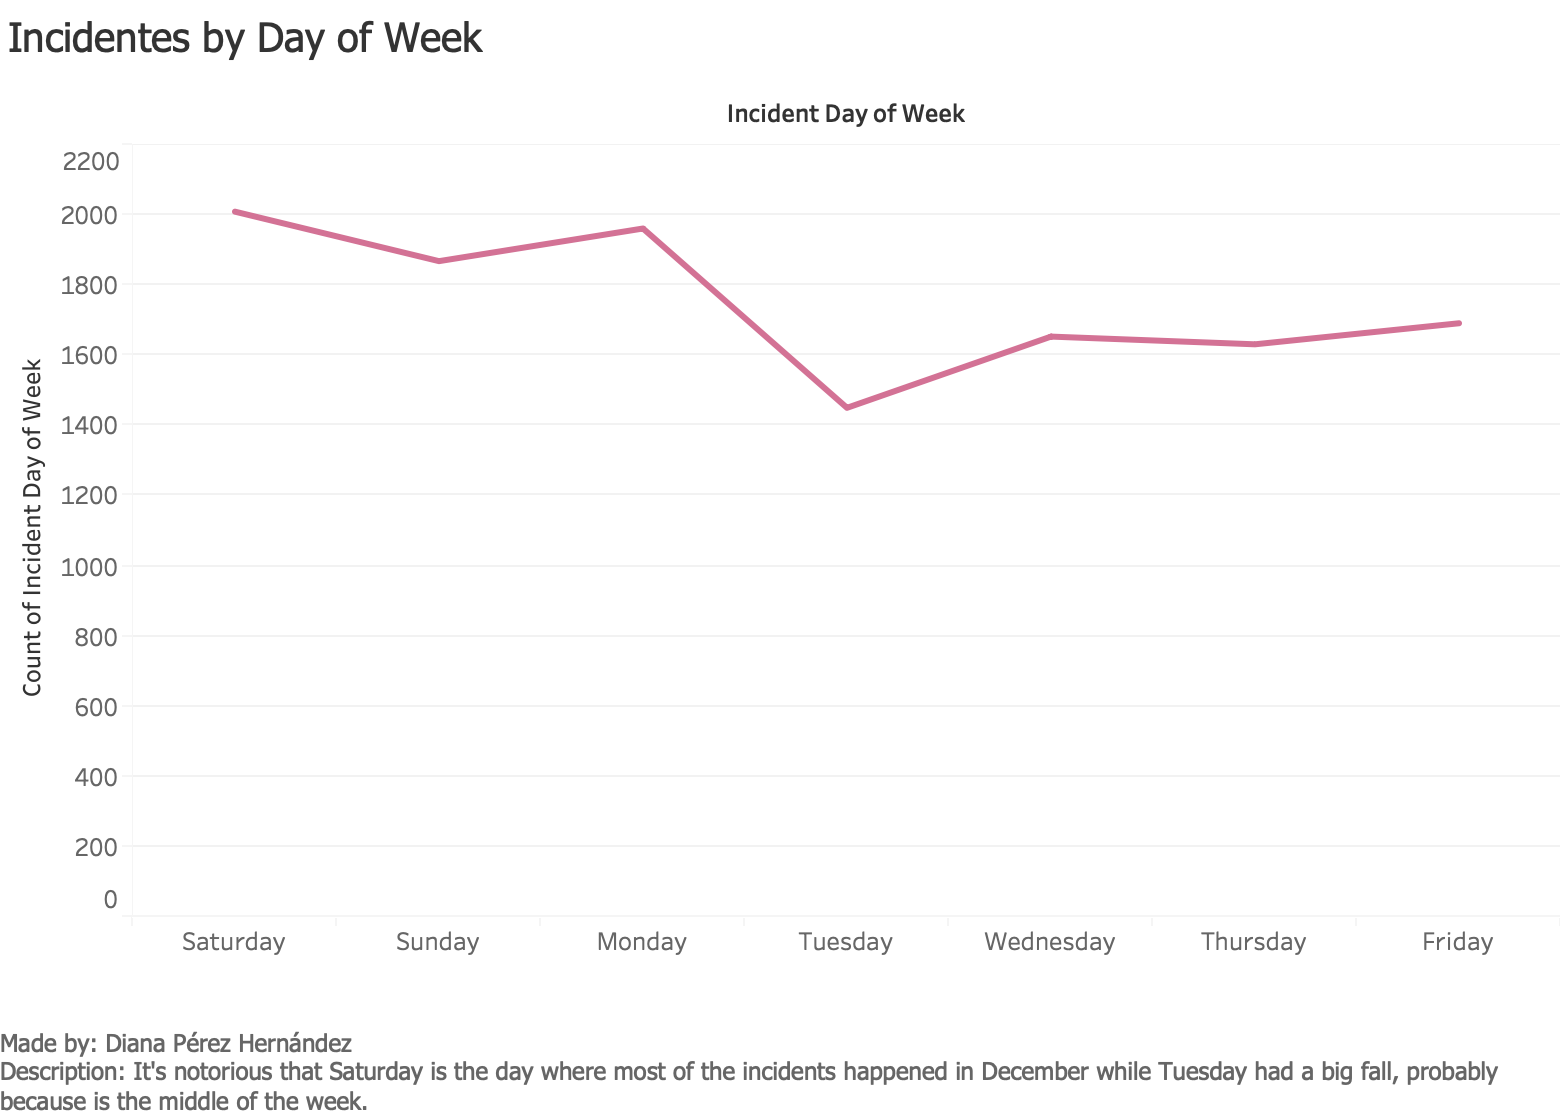
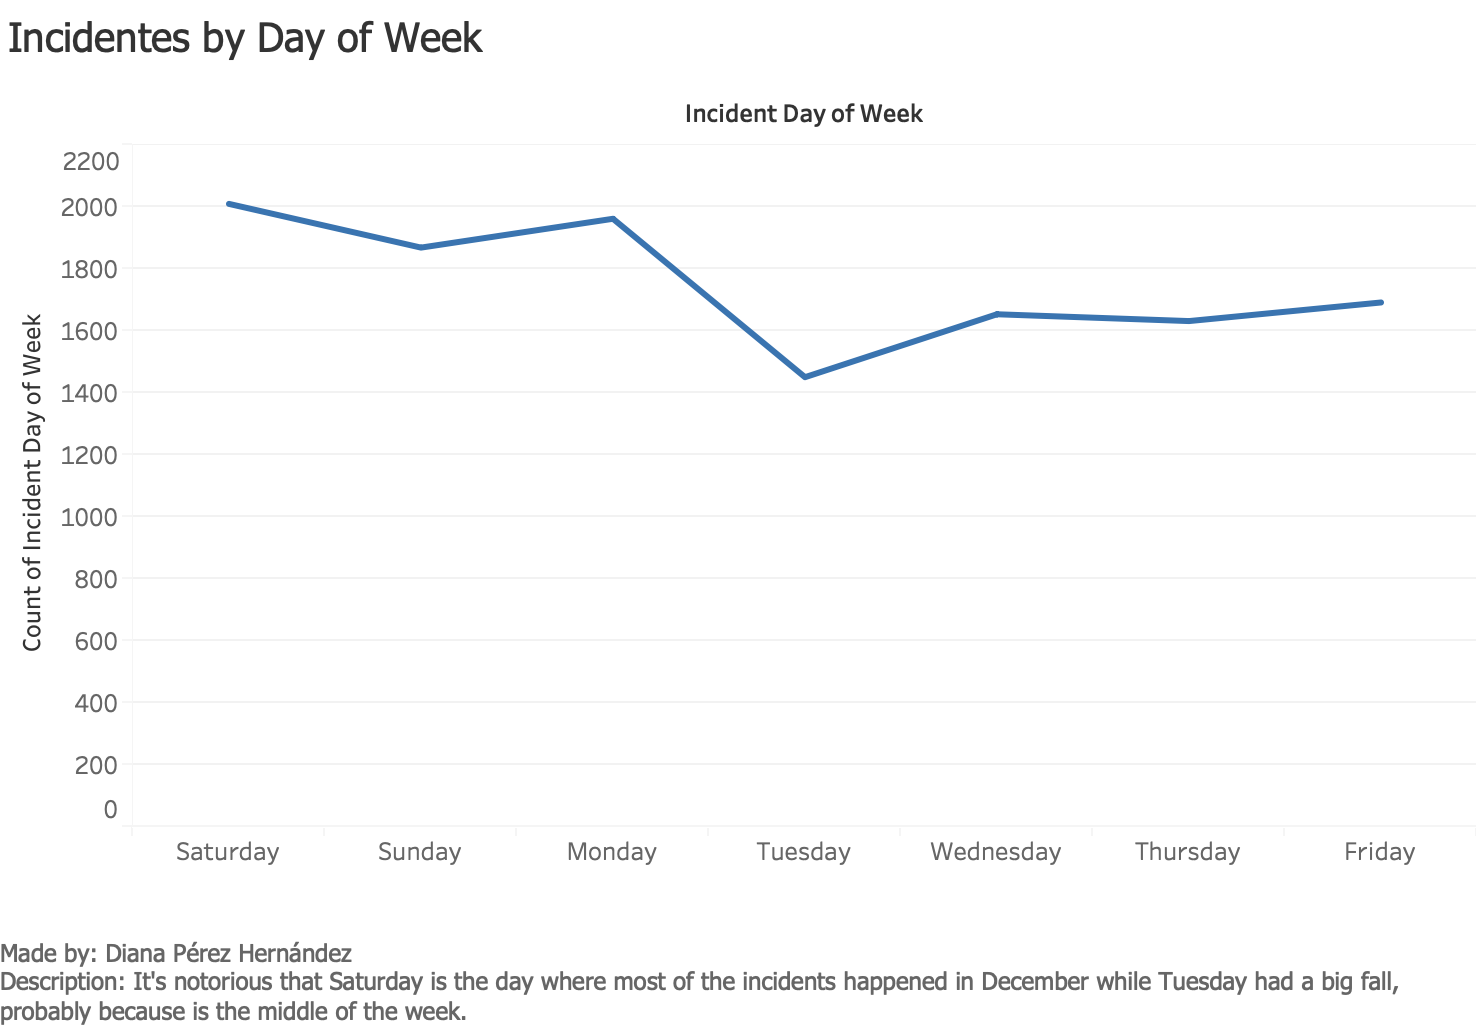
Adding formating vis3, adding credits

diff --git a/index.html b/index.html
@@ -137,7 +137,10 @@
       <h3>Credit</h3>
 
       <p>
-        If appropriate, provide credit for the dataset, any code used, and design inspirations here. Unsufficient discussion here is a violation of the <a href="/syllabus.html#cheating-policy">academic honesty policy</a> and may result in an F grade for the assignment or the <em>entire</em> course.
+        Some part of svg code were inpired by the following Websites:
+        http://bl.ocks.org/sjengle/e8c0d6abc0a8d52d4b11
+        https://beta.observablehq.com/@sjengle/zillow-affordability-heatmap
+        http://www.d3noob.org/2013/01/adding-title-to-your-d3js-graph.html
       </p>
     </div>
   </section>
@@ -180,7 +183,12 @@
       <h3>Credit</h3>
 
       <p>
-        If appropriate, provide credit for the dataset, any code used, and design inspirations here. Unsufficient discussion here is a violation of the <a href="/syllabus.html#cheating-policy">academic honesty policy</a> and may result in an F grade for the assignment or the <em>entire</em> course.
+        Some parts of svg code were inpired by the following Websites:
+        https://bl.ocks.org/KingOfCramers/04dcd9742a2be13d99db5f7a7480b4ca
+        http://bl.ocks.org/sjengle/e8c0d6abc0a8d52d4b11
+        https://beta.observablehq.com/@mbostock/d3-stacked-bar-chart
+        http://www.d3noob.org/2013/01/adding-title-to-your-d3js-graph.html
+        https://bl.ocks.org/mbostock/4403522
       </p>
     </div>
   </section>
@@ -224,7 +232,10 @@
       <h3>Credit</h3>
 
       <p>
-        If appropriate, provide credit for the dataset, any code used, and design inspirations here. Unsufficient discussion here is a violation of the <a href="/syllabus.html#cheating-policy">academic honesty policy</a> and may result in an F grade for the assignment or the <em>entire</em> course.
+        Some parts of svg code were inpired by the following Websites:
+        http://bl.ocks.org/sjengle/e8c0d6abc0a8d52d4b11
+        https://bl.ocks.org/d3noob/119a138ef9bd1d8f0a8d57ea72355252
+        http://www.d3noob.org/2013/01/adding-title-to-your-d3js-graph.html
       </p>
     </div>
   </section>
@@ -283,7 +294,7 @@
           <!-- b level functionality -->
           <tr>
             <td class="has-text-centered">
-              <i class="far fa-fw fa-times-circle has-text-danger"></i>
+              <i class="far fa-fw fa-check-circle has-text-success"></i>
             </td>
 
             <td class="has-text-centered">
@@ -299,7 +310,7 @@
           <!-- a level functionality -->
           <tr>
             <td class="has-text-centered">
-              <i class="far fa-fw fa-times-circle has-text-danger"></i>
+              <i class="far fa-fw fa-check-circle has-text-success"></i>
             </td>
 
             <td class="has-text-centered">

diff --git a/viz3.js b/viz3.js
@@ -10,7 +10,7 @@ var drawLineChart = function(data) {
   var svg = d3.select("body").select("svg#svg3");
   var bounds = svg.node().getBoundingClientRect();
   var plotWidth = 430;
-  var plotHeight = 880;
+  var plotHeight = 850;
 
   /*Scales*/
   var countScale = d3.scaleLinear()
@@ -24,7 +24,7 @@ var drawLineChart = function(data) {
     .paddingInner(0.6);
 
   var margin = {
-    top:    -130,
+    top:    -140,
     right:  35,
     bottom: 30,
     left:   0
@@ -44,12 +44,55 @@ var drawLineChart = function(data) {
 
   var grid = d3.axisLeft(countScale)
       .tickFormat("")
-      .tickSize(-plotHeight + 193);
+      .tickSize(-plotHeight + 160);
 
   plot.append("g")
         .attr("class", "grid")
         .attr("transform", "translate(75, 0)")
         .call(grid);
+
+  svg.append("text")
+        .attr("x", margin.left + 20)
+        .attr("y", margin.top + 170)
+        .attr("text-anchor", "left")
+        .style("font-size", "23px")
+        .text("Incidentes by Day of Week");
+
+  svg.append("text")
+    .attr("x", margin.left - 360)
+    .attr("y", margin.top + 170)
+    .attr("text-anchor", "left")
+    .attr("transform", "rotate(-90)")
+    .style("font-size", "13px")
+    .text("Count of Incident Day of Week");
+
+  svg.append("text")
+    .attr("x", margin.left + 400)
+    .attr("y", margin.top + 190)
+    .attr("text-anchor", "left")
+    .style("font-size", "13px")
+    .text("Incident Day of Week");
+
+  var caption = svg.append("text")
+      .attr("x", margin.left - 120)
+      .attr("y", margin.top + 580)
+      .attr("text-anchor", "right")
+      .style("font-size", "12px");
+
+  var captionText = "Made by: Diana Pérez Hernández\n"+
+          "Description: It's notorious that Saturday is "+
+          "the day where most of the incidents happened in December while"+
+          " Tuesday had a big fall, probably\nbecause is the middle of the week.";
+
+  caption.selectAll("tspan.text")
+        .data(captionText.split("\n"))
+        .enter()
+        .append("tspan")
+        .attr("class", "text")
+        .text(d => d)
+        .attr("x", 20)
+        .attr("dx", 10)
+        .attr("dy", 15);
 
   var valueline = d3.line()
     .x(function(d) { return dayOfWeekScale(d.key); })

diff --git a/viz2.js b/viz2.js
@@ -128,7 +128,6 @@ var drawStackBar = function(data) {
   }
   y = 53;
   for (var i in districtsReverse) {
-    console.log(colorScale(districtsReverse[i]) );
     svg.append("rect")
         .attr("x", 740)
         .attr("y", y + 20)
